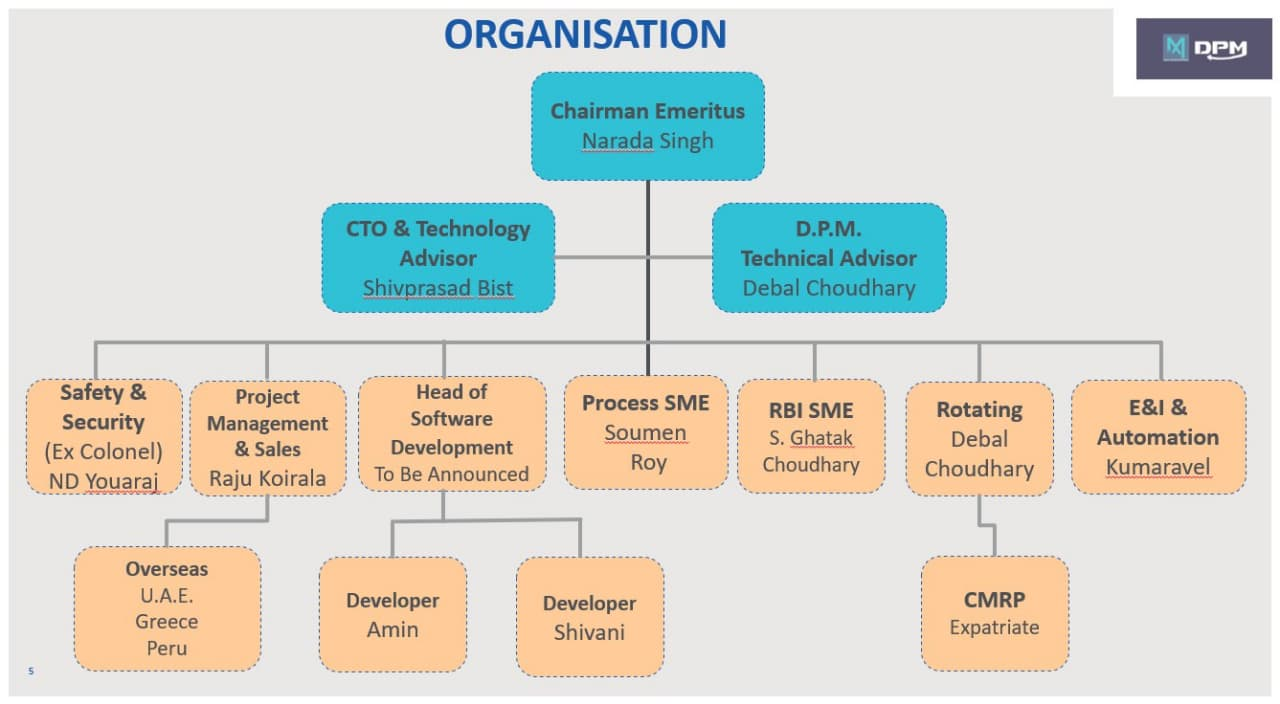
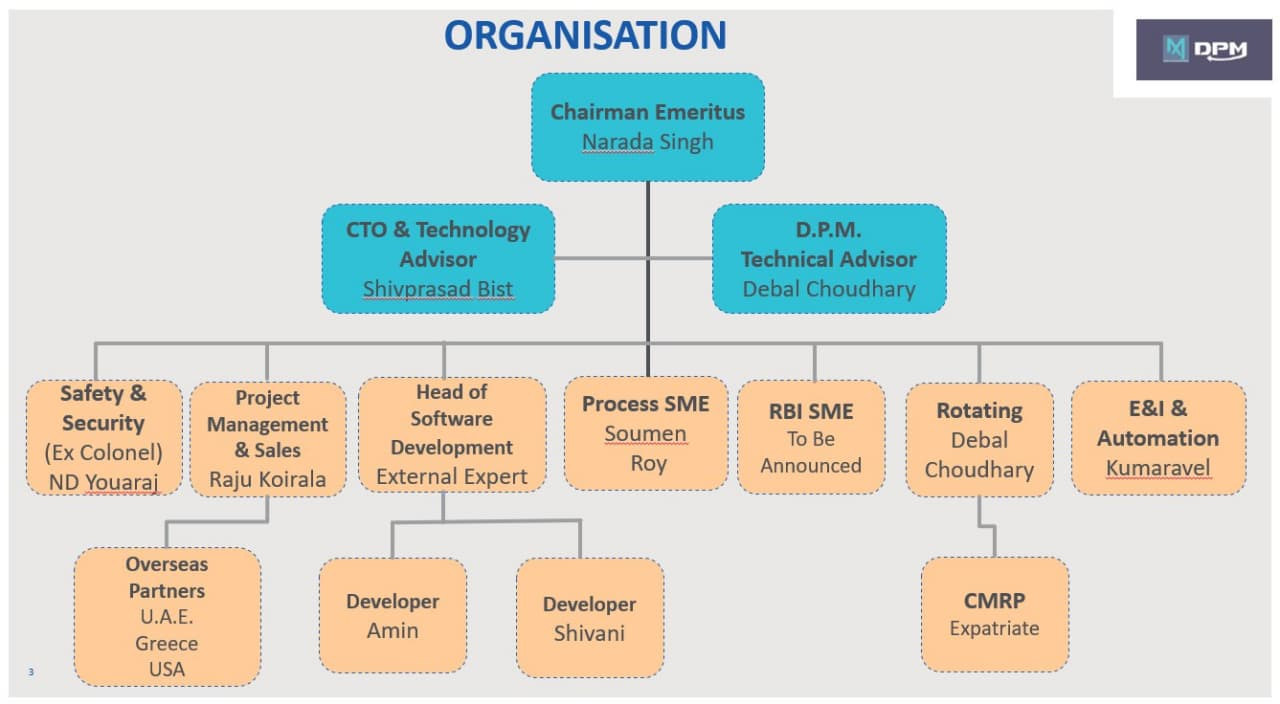
Done
Done

diff --git a/about.html b/about.html
@@ -372,18 +372,18 @@
                     <div class="col-sm-4">
                         <div class="team-item">
                             <div class="team-item-image">
-                                <img src="assets/img/GC.jpg" style="height:16em; width: 14em;" alt="team member">
+                                <img src="assets/img/TBA.JPG" style="height:16em; width: 14em;" alt="team member">
                                 <!-- <div class="team-item-detail">
                                     <h5 class="team-item-title">Contact</h5>
                                     <span><strong>Tel: </strong></span><br>
                                     <span><strong></strong></span>
                                 </div> -->
                             </div>
-                            <h4 class="team-item-name">Surajit Ghatak Chaudhuri </h4>
+                            <h4 class="team-item-name"> To Be Announced </h4>
                             <h6>S.M.E. - RBI </h6>
-                            <span class="team-item-role">38 years of experience in Inspection & Maintenance, Project Design, Risk Based Inspection & Management in                              
-                                <a href="#"class="icon-twitter" style="color:#585570;" target="_blank"><i class="fa fa-linkedin fa-lg"></i></a>
-                            </span>
+                            <span class="team-item-role">   
+                                To Be Announced                           
+                             </span>
                         </div>
                     </div>
 
